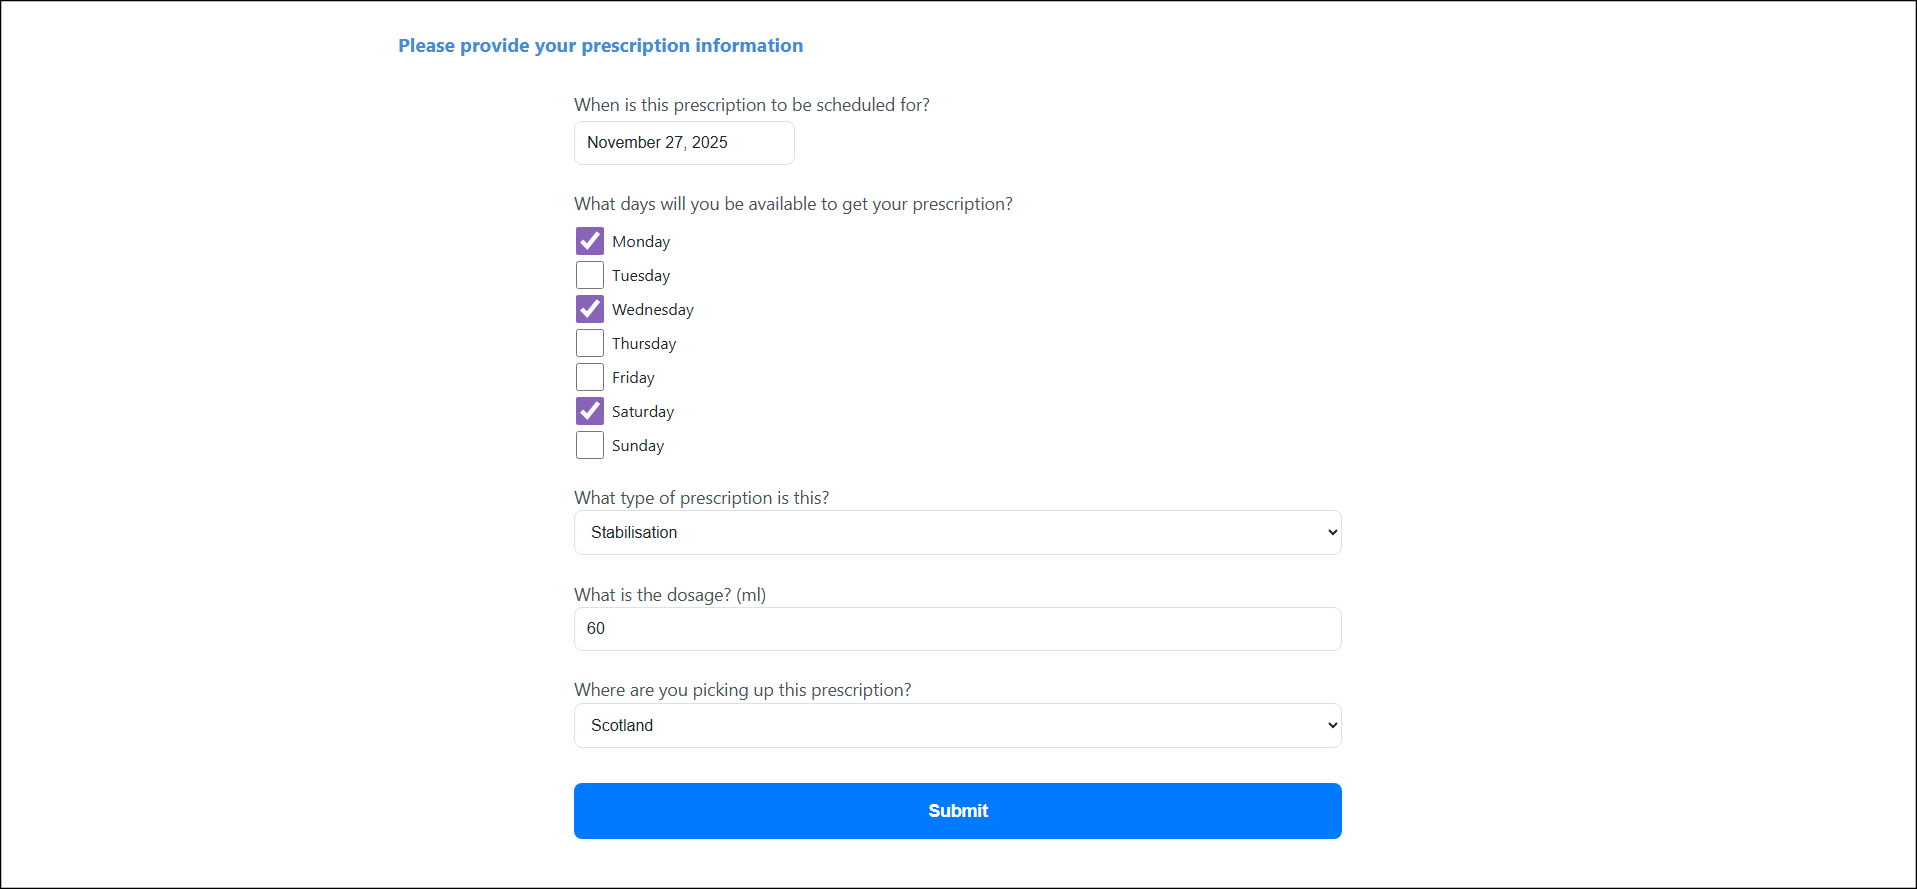
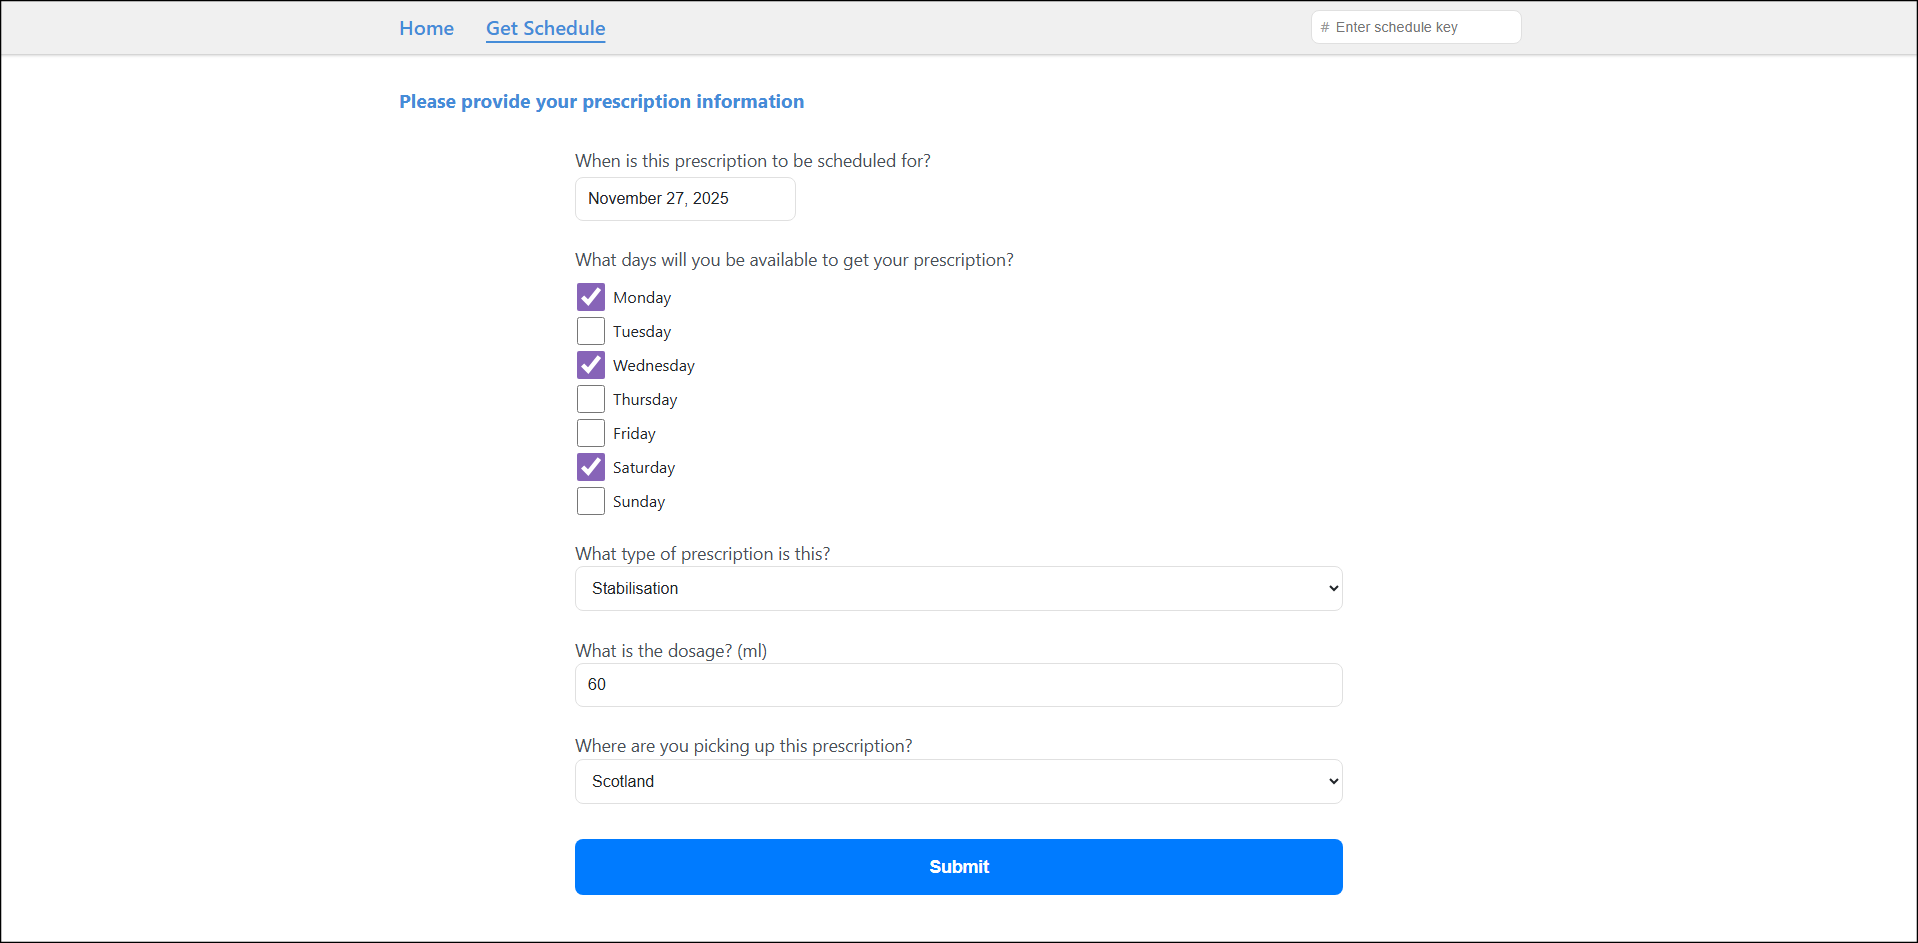
Fixed desktop_image_1.png (was missing header), minor update to README and home page description

diff --git a/src/pages/Home/Home.tsx b/src/pages/Home/Home.tsx
@@ -17,7 +17,7 @@ const Home = () => {
       <div>
         <h1 className="Home__title">Manage Your Prescription Schedule</h1>
         <p className="Home__description">
-          Get your personalized 14-day prescription schedule based on your availability and dosage requirements.
+          Get your personalized 14-day prescription schedule based on availability and dosage requirements.
         </p>
         <Button 
           onClick={() => navigate('/onboarding')}

diff --git a/README.md b/README.md
@@ -80,9 +80,11 @@ Schedules are encoded into compact keys for ease of use (sharing and URL paramet
 ## Areas for improvement
 
 - Better schedule UI by removing redundant no dosage days at start of schedule
-- Improved schedule generation by accounting instances when schedule starts on a bank holiday
+- Improved schedule generation by accounting for instances when schedule starts on a bank holiday
 - Add ErrorBoundary for uncaught Typescript errors, or in the event an API call fails
 - Provide UI theming for light mode/dark mode
 - Replace current schedule edit pattern with side drawer on schedule view for elegant UX
 - Use page by page onboarding wizard in place of full form for ease of use
 - Improved skeleton loader for calendar components
+- Add test coverage for components and hooks
+- Use .env var to determine localhost port number
